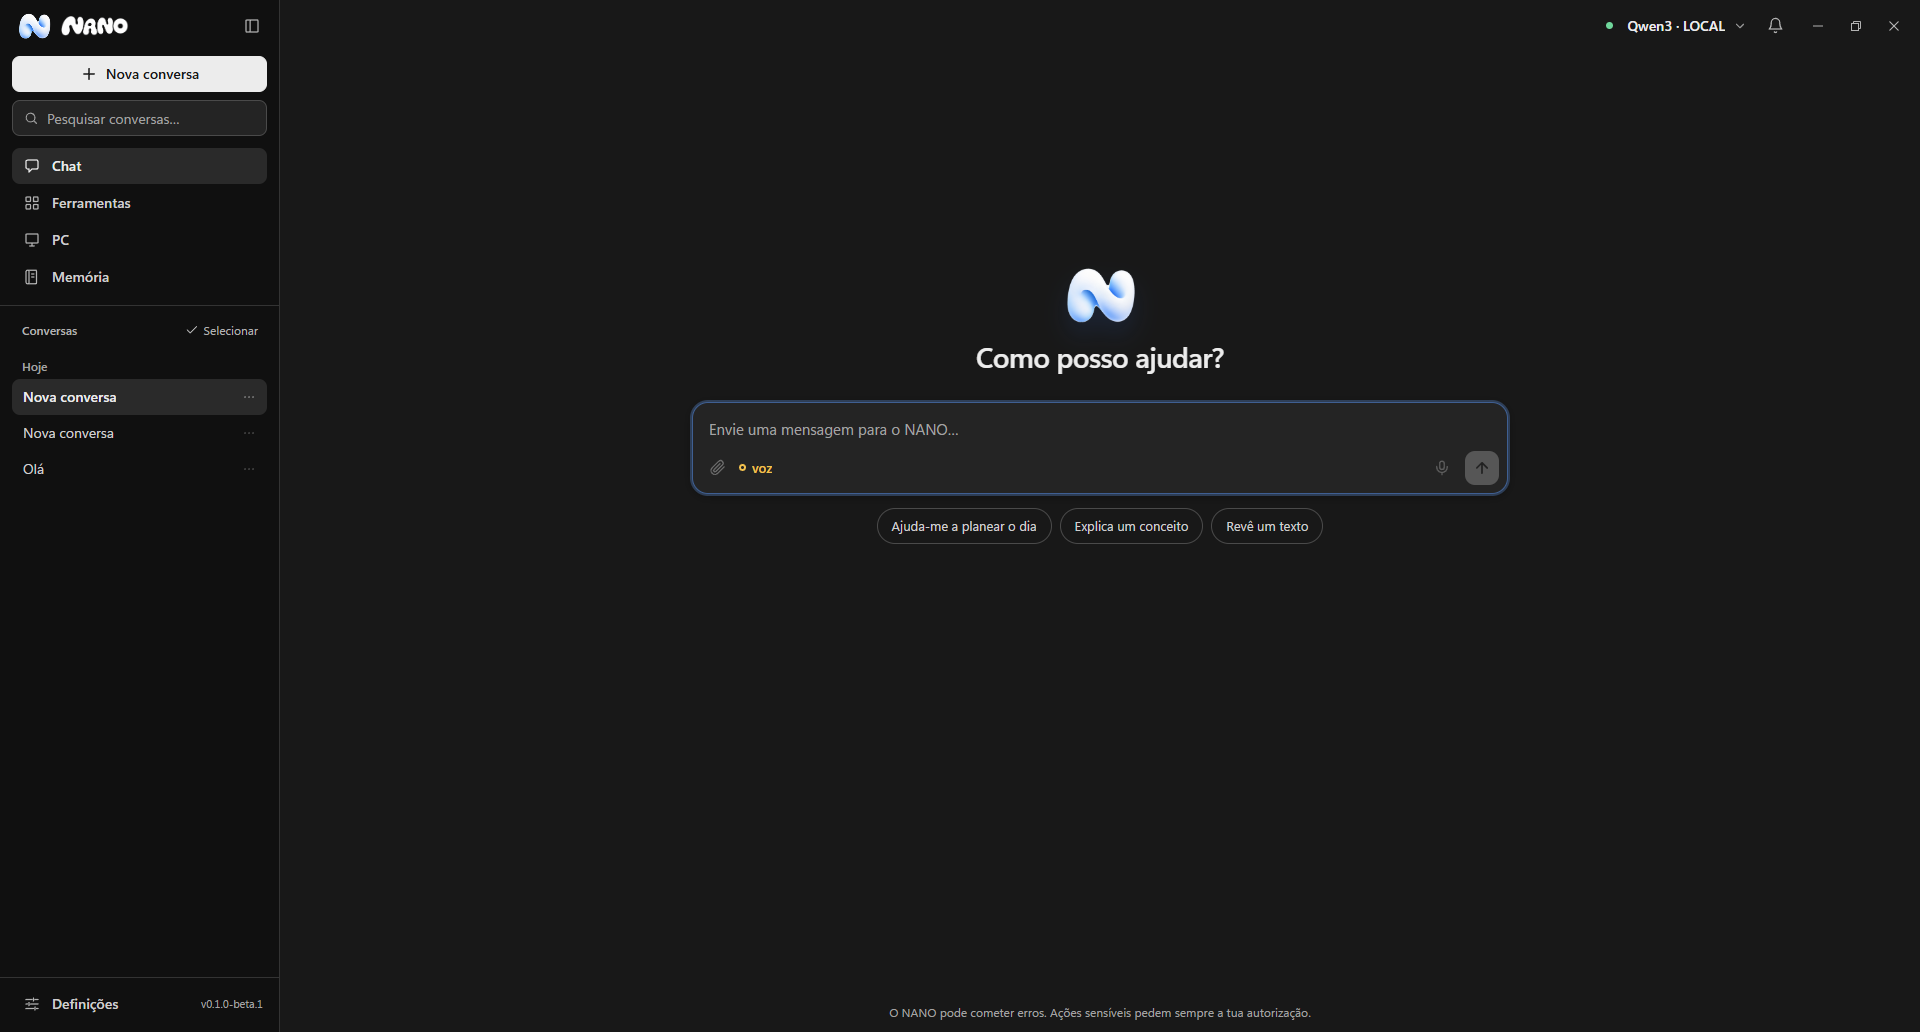
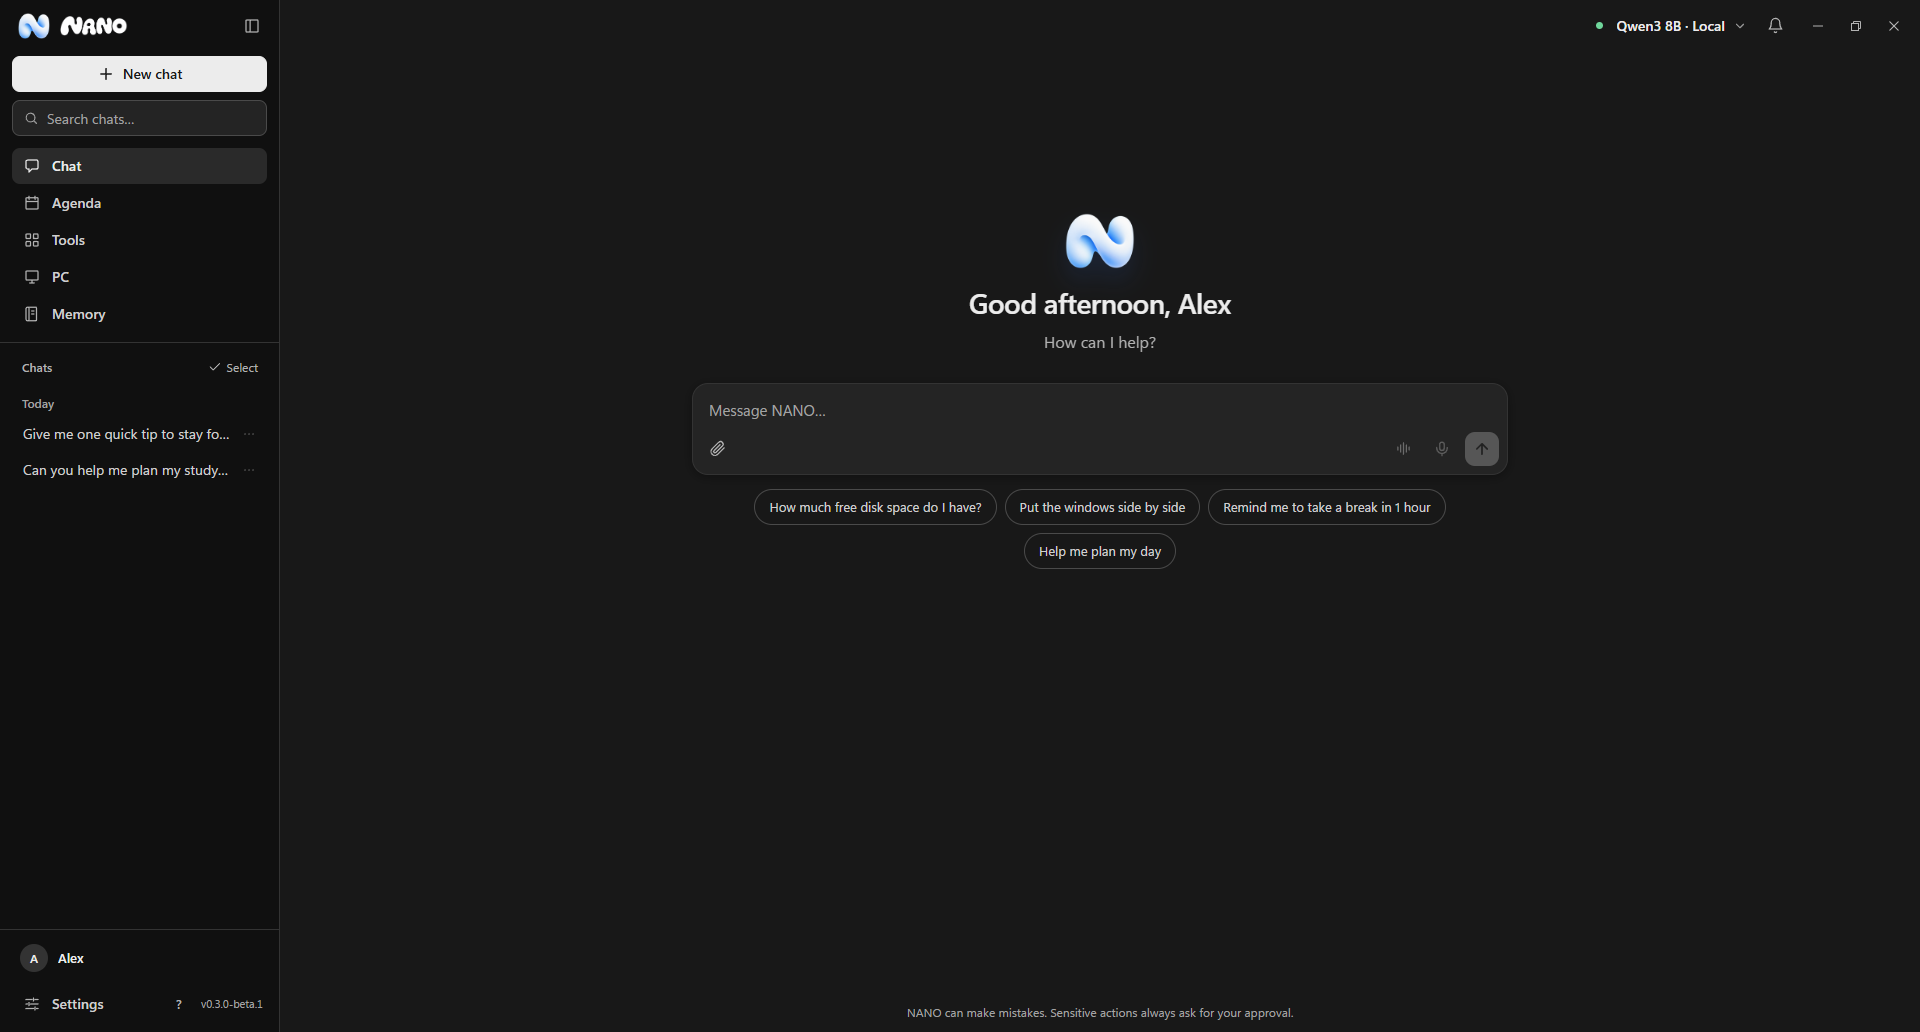
README: new English screenshots of 0.3.0-beta.1, including the phone app
Captured from a separate demo profile (fictional user, demo data, no keys):
home, chat with memory, side panel, full-screen voice mode, Agenda, Memory,
and two screens of the Android app.

diff --git a/README.md b/README.md
@@ -93,26 +93,41 @@ e no [CHANGELOG](CHANGELOG.md).
 
 ## Como é
 
-Capturas da aplicação atual, feitas num perfil isolado com conteúdo de
-demonstração. A Beta continua em desenvolvimento.
+Capturas do NANO 0.3.0-beta.1 com a interface em inglês, feitas num perfil
+isolado com uma pessoa fictícia ("Alex") e dados de demonstração. Nenhuma
+mostra dados reais nem chaves.
 
 ### Ambiente de trabalho
 
 <p align="center">
-  <img src="docs/assets/screenshots/nano-home.png" alt="Ecrã inicial escuro do NANO, com o símbolo N e o compositor" width="900" />
+  <img src="docs/assets/screenshots/nano-home.png" alt="Ecrã inicial do NANO em inglês: conversas à esquerda, cumprimento pelo nome, campo de mensagem e sugestões" width="900" />
 </p>
 
-### Conversa local
+### Conversa com memória e painel lateral
 
 <p align="center">
-  <img src="docs/assets/screenshots/nano-thinking.png" alt="NANO a processar um pedido real num perfil de demonstração" width="440" />
-  <img src="docs/assets/screenshots/nano-conversation.png" alt="Resposta real do modelo local Ollama no NANO" width="440" />
+  <img src="docs/assets/screenshots/nano-chat.png" alt="Plano de estudo curto do modelo local que usa o que o NANO sabe sobre a pessoa" width="440" />
+  <img src="docs/assets/screenshots/nano-side-panel.png" alt="Resposta com código Python aberta no painel lateral, ao lado da conversa" width="440" />
 </p>
 
-### NANO Brain
+### Modo de voz e Agenda
 
 <p align="center">
-  <img src="docs/assets/screenshots/nano-brain.png" alt="Grafo do NANO Brain com três nós de demonstração e duas ligações reais" width="900" />
+  <img src="docs/assets/screenshots/nano-voice-mode.png" alt="Modo de voz em ecrã inteiro, com o estado de escuta simulado" width="440" />
+  <img src="docs/assets/screenshots/nano-agenda.png" alt="Agenda com lembretes que se repetem e eventos fictícios" width="440" />
+</p>
+
+### Memória
+
+<p align="center">
+  <img src="docs/assets/screenshots/nano-memory.png" alt="Página Memória com sete memórias de demonstração criadas pelo utilizador" width="900" />
+</p>
+
+### No telemóvel (Android)
+
+<p align="center">
+  <img src="docs/assets/screenshots/nano-phone-chat.png" alt="App Android do NANO: conversa sobre o teste de amanhã" width="260" />
+  <img src="docs/assets/screenshots/nano-phone-agenda.png" alt="App Android do NANO: agenda com lembretes e eventos" width="260" />
 </p>
 
 ### Overlay de voz
@@ -121,8 +136,10 @@ demonstração. A Beta continua em desenvolvimento.
   <img src="docs/assets/screenshots/nano-overlay.png" alt="Cápsula de voz NANO no estado de escuta, simulada em Electron sobre fundo claro" width="760" />
 </p>
 
-O estado de escuta na última captura foi simulado no renderer Electron para
-verificar a apresentação; não representa um teste humano do microfone.
+O estado de escuta no modo de voz e na cápsula foi simulado para mostrar a
+apresentação; não representa um teste humano do microfone. As capturas do
+telemóvel vêm da app a correr com dados de demonstração, sem ligação a um PC
+real.
 
 ## O que é o Nano?
 
